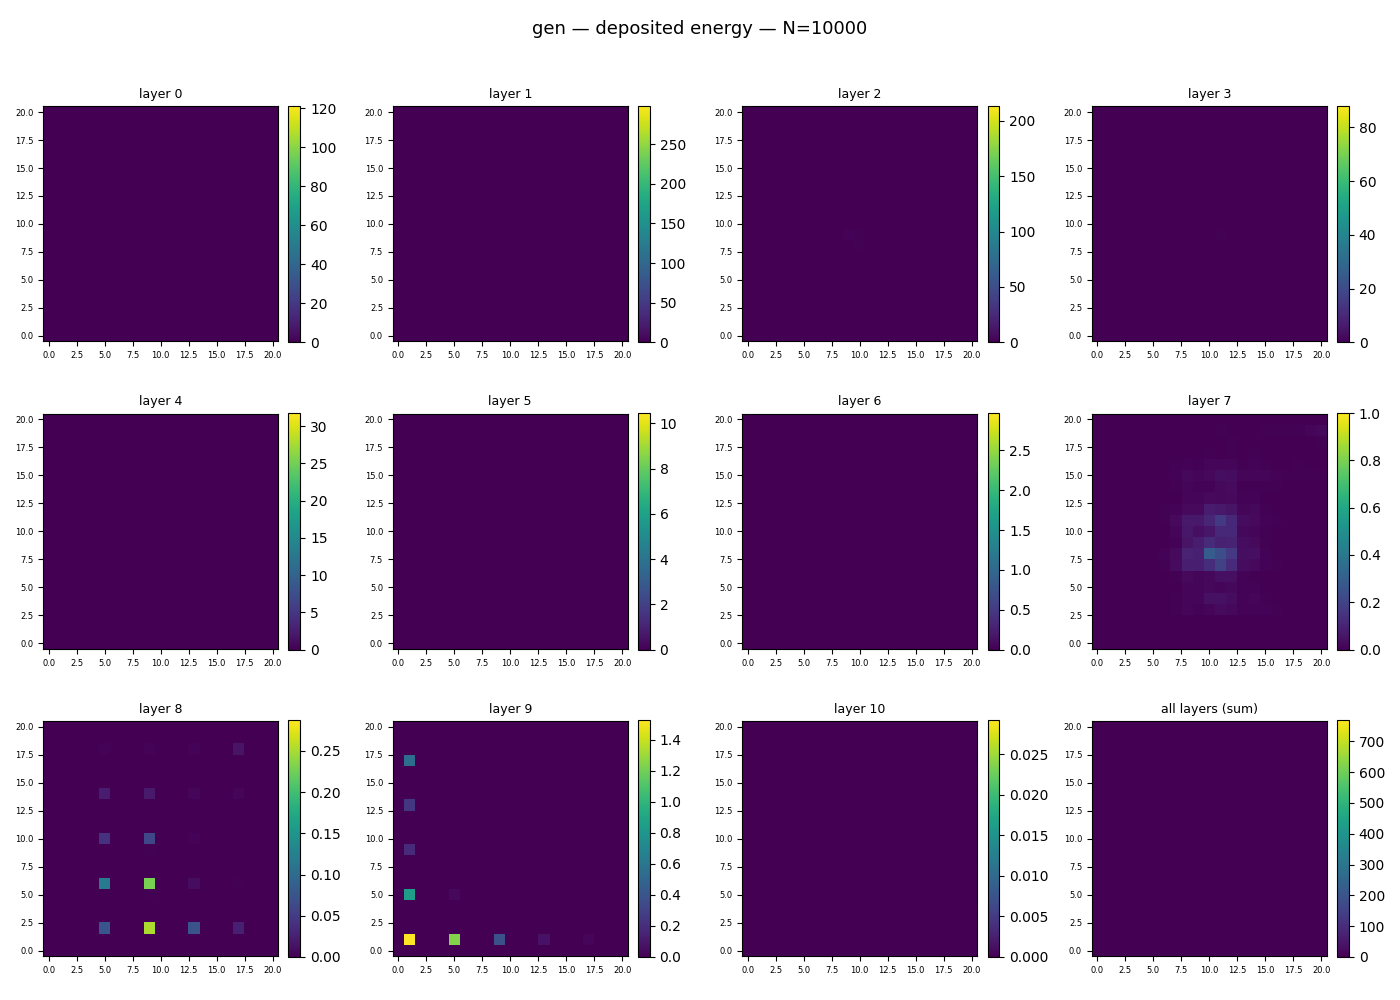
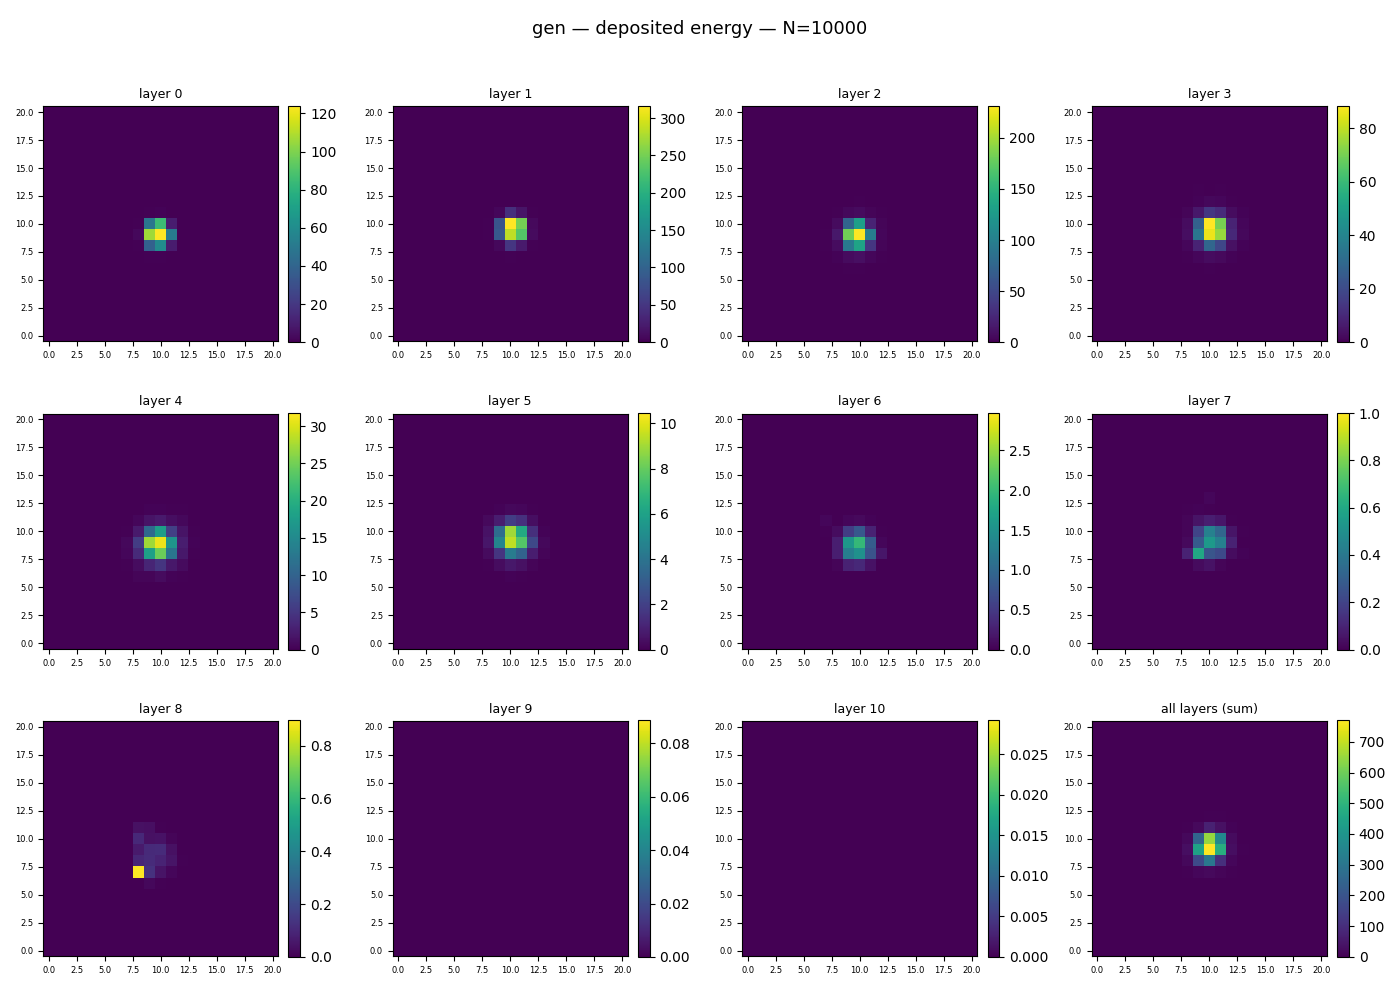
updates.

diff --git a/main.py b/main.py
@@ -55,7 +55,7 @@ def get_parser(**parser_kwargs):
     # it onto accelerator/devices ourselves. None/0 -> CPU.
     parser.add_argument("--gpus", type=str, default=None,
                         help="comma-separated GPU ids or a count. Omit / 0 for CPU.")
-    parser.add_argument("--max_epochs", type=int, default=200,
+    parser.add_argument("--max_epochs", type=int, default=1000,
                         help="convenience override for lightning.trainer.max_epochs")
     return parser
 
@@ -187,7 +187,7 @@ if __name__ == "__main__":
         if hasattr(model, "monitor"):
             print(f"Monitoring {model.monitor} as checkpoint metric.")
             default_modelckpt_cfg["params"]["monitor"] = model.monitor
-            default_modelckpt_cfg["params"]["save_top_k"] = 3
+            default_modelckpt_cfg["params"]["save_top_k"] = 1
         modelckpt_cfg = lightning_config.get("modelcheckpoint", OmegaConf.create())
         modelckpt_cfg = OmegaConf.merge(default_modelckpt_cfg, modelckpt_cfg)
 
